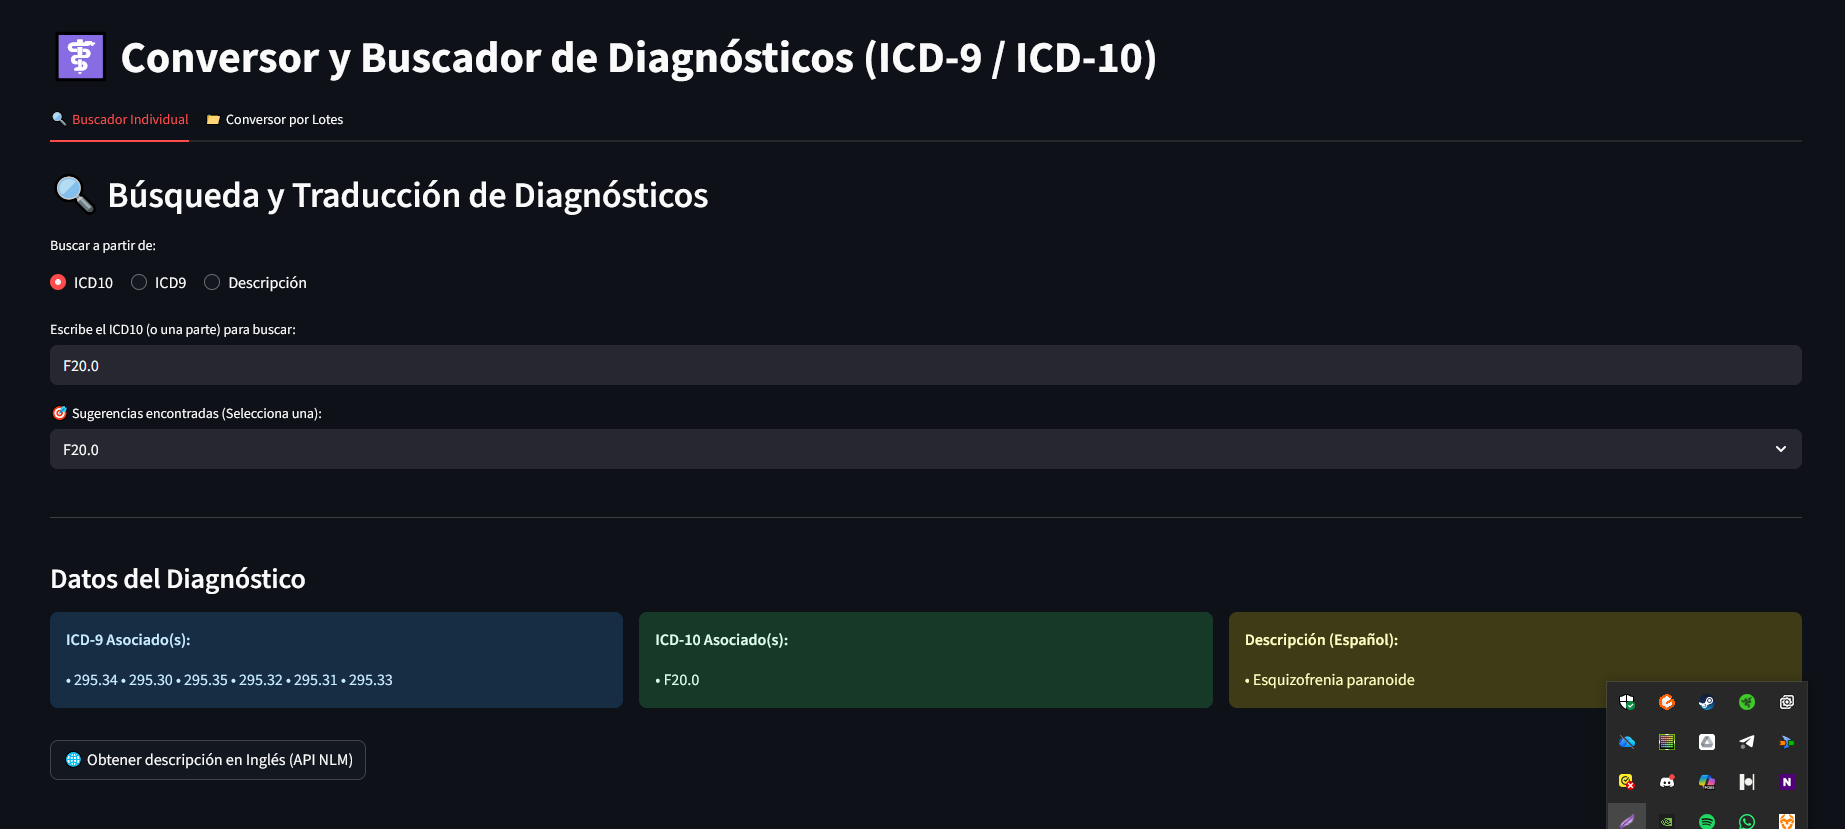
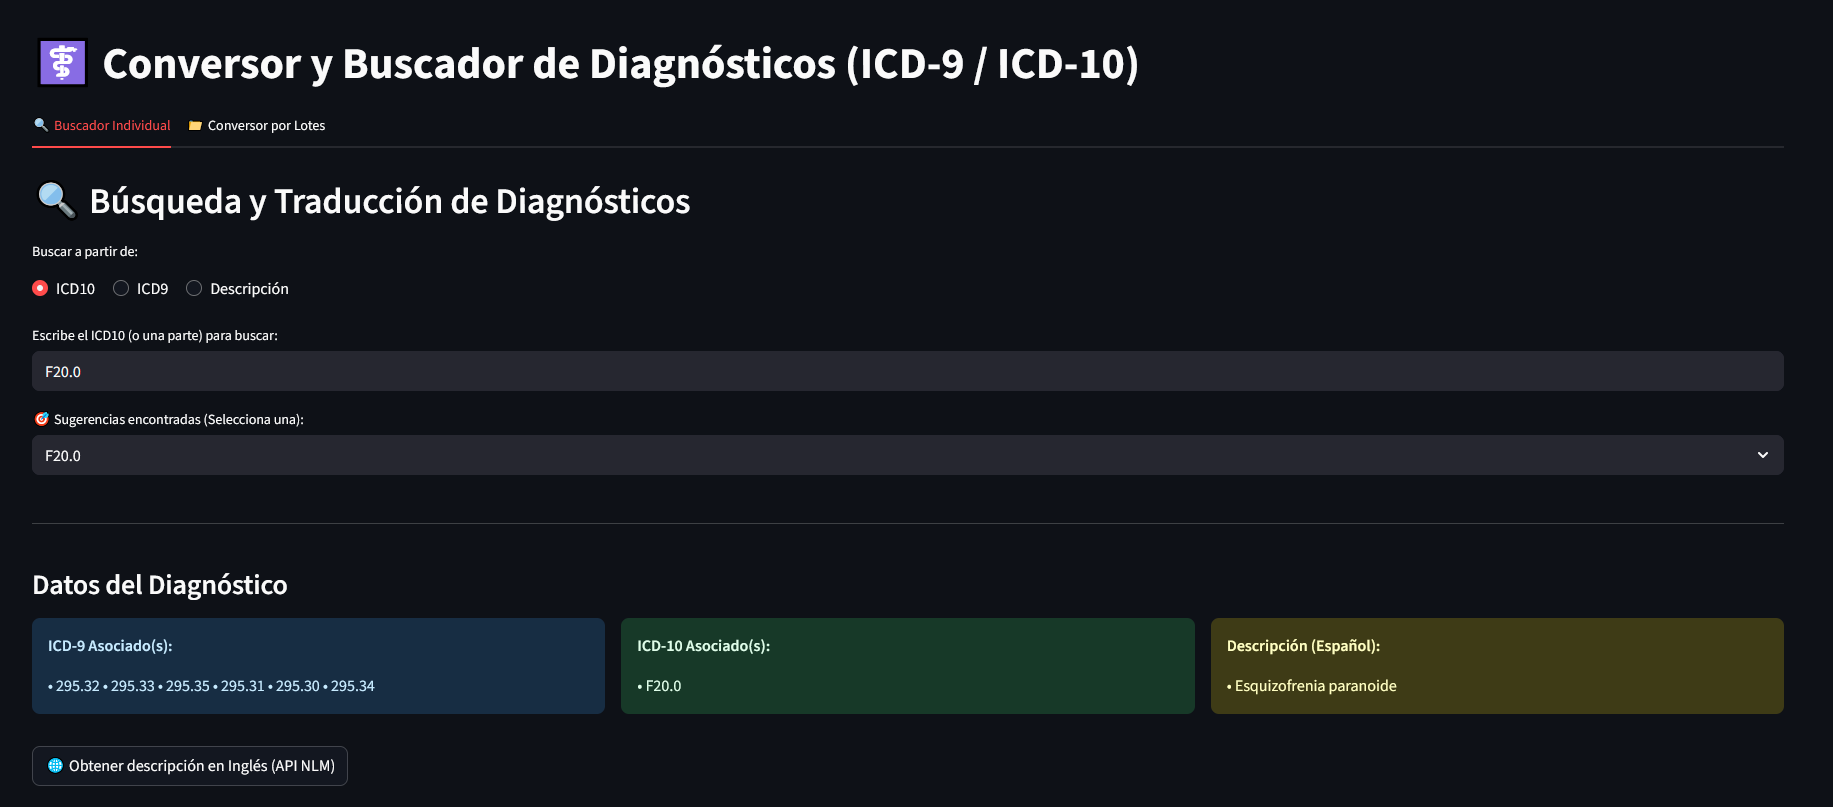
Apartado 6, completado

Changed region(s): [[0.0, 0.2169, 0.9951, 0.5886], [0.0, 0.6815, 0.9951, 1.0], [0.0, 0.031, 0.653, 0.1859]]

diff --git a/LaTeX/Memoria.tex b/LaTeX/Memoria.tex
@@ -374,6 +374,17 @@ El recorrido del profesional médico a través de la herramienta sigue una secue
 \end{enumerate}
 
 Este diseño de un solo nivel garantiza que cualquier miembro del personal sanitario, independientemente de su grado de alfabetización digital, pueda asimilar el manejo de la herramienta en apenas unos minutos, manteniendo su atención focalizada en el diagnóstico del paciente y no en el uso del \textit{software}.
+
+Por otro lado, cuando el usuario conmuta la interfaz hacia la pestaña de \textit{Conversor por Lotes}, la arquitectura de la aplicación cambia hacia un modelo de flujo de trabajo guiado por estados secuenciales (\textit{State-driven Workflow}). Este diseño impide que el usuario cometa errores de configuración al bloquear las opciones avanzadas hasta que se verifiquen con éxito los pasos previos:
+
+\begin{enumerate}
+    \item \textbf{Fase de Ingesta e Inspección Estructural:} El flujo se inicia en un componente de arrastre de archivos (\textit{Drag and Drop}) optimizado para archivos CSV, proporcionado por Streamlit. Tras la carga del fichero por parte del usuario, el sistema realiza de forma asíncrona un \textit{parsing} primario y renderiza una previsualización interactiva limitada a las primeras 5 filas. Esto permite al facultativo comprobar visualmente si la estructura del archivo cargado coincide con sus expectativas antes de iniciar cualquier cómputo.
+    
+    \item \textbf{Fase de Parametrización Dinámica:} Una vez validada la presencia del archivo, la interfaz desbloquea dinámicamente el panel de <<Configuración de la conversión>>. En este punto, la navegación es puramente selectiva: el sistema lee las cabeceras del CSV original y rellena automáticamente un menú desplegable para que el usuario elija qué columna exacta contiene los datos a convertir, el formato de origen (ICD-9, ICD-10 o descripción) y las conversiones deseadas para el conjunto de datos resultante (códigos cruzados, descripciones en castellano o descripciones internacionales).
+    
+    \item \textbf{Ejecución, Validación y Persistencia:} Tras presionar el botón de procesamiento, el sistema ejecuta las transformaciones en segundo plano, notificando el éxito de la operación mediante una alerta visual integrada de éxito. Finalmente, el flujo concluye revelando una tabla de resultados enriquecida y habilitando de forma síncrona el botón de descarga, cerrando el ciclo de vida del dato dentro de la sesión web sin provocar disrupciones en la pantalla principal.
+\end{enumerate}
+
 \section{Accesibilidad de la aplicación}
 
 La accesibilidad de la plataforma se ha planteado desde una perspectiva práctica y funcional, adaptando los criterios estándar de diseño web a las necesidades específicas del entorno clínico hospitalario. Siguiendo las directrices de simplicidad establecidas en las secciones previas, la accesibilidad de la aplicación no se basa en menús de configuración complejos, sino en un diseño nativamente inclusivo que reduce las barreras de uso para todo el personal sanitario.
@@ -408,6 +419,43 @@ Las características funcionales clave integradas en este panel son las siguient
     \includegraphics[width=0.95\textwidth]{imagenes/Web_en_accion.png}
     \caption{Módulo del Conversor Individual: interfaz de búsqueda polivalente y panel de resultados de correspondencias ICD-9/ICD-10.}
     \label{fig:conversor_icd}
+\end{figure}
+
+\section{Procesamiento masivo y automatización por lotes}
+
+La segunda funcionalidad de la herramienta es el módulo de procesamiento masivo, diseñado específicamente para dar respuesta a flujos de trabajo orientados a la investigación epidemiológica o a la migración a gran escala de bases de datos hospitalarias locales. Esta funcionalidad traslada la lógica de traducción semántica individualizada a un motor de transformación de conjuntos de datos tabulares en memoria.
+
+Las características arquitectónicas y de diseño técnico que definen este panel se desglosan a continuación:
+
+\begin{itemize}
+    \item \textbf{Aislamiento y tipado dinámico de columnas:} El motor de la aplicación web lee de forma nativa el esquema del archivo CSV suministrado por el usuario. Al automatizar la extracción de las etiquetas de las columnas (como se ilustra en el campo \textit{Codigo\_Entrada}), el sistema independiza al profesional de la necesidad de adaptar o renombrar la estructura de sus archivos de origen, garantizando la compatibilidad con cualquier volcado de datos crudos proveniente de un sistema de historia clínica ajeno.
+    
+    \item \textbf{Modularidad bajo demanda y gestión de latencia:} El panel de selección de nuevas columnas permite configurar la carga de la consulta de forma granular. El usuario puede determinar si desea limitar la conversión al cruce estricto de códigos locales o si prefiere enriquecer el dataset con semántica lingüística. El sistema incluye una advertencia explícita respecto al coste computacional de activar la opción <<Inglés (API)>>; esto refleja un diseño consciente de la latencia informática, puesto que la traducción local basada en el \textit{dataset} curado opera en milisegundos, mientras que la concatenación de llamadas asíncronas externas a la API de la NLM introduce cuellos de botella de red que el usuario debe conocer.
+    
+    \item \textbf{Previsualización síncrona del dataset transformado:} Una vez completado el algoritmo de combinación y mapeo relacional, la aplicación despliega un \textit{dataframe} dinámico integrado en la propia vista. Esta visualización presenta de forma transparente el resultado de la transformación cruzada: un código de entrada genérico (por ejemplo, el código clínico \textit{E11.9} o \textit{M54.5}) se descompone horizontalmente indexando su equivalencia en el estándar opuesto, acoplando a la vez sus respectivas descripciones diagnósticas en castellano e inglés (si es pedido).
+    
+    \item \textbf{Persistencia y exportación limpia:} El módulo concluye su pipeline operativo exponiendo un botón de acción dedicado a la descarga del recurso enriquecido. El archivo resultante mantiene intacto el orden secuencial y los identificadores originales del usuario, añadiendo estrictamente las columnas configuradas. Esta salida estandarizada garantiza que el archivo generado pueda reintroducirse directamente en herramientas de análisis estadístico posteriores o motores de bases de datos corporativos.
+\end{itemize}
+
+\begin{figure}[htbp]
+    \centering
+    \includegraphics[width=0.95\textwidth]{imagenes/Web_lotes_1.png}
+    \caption{Módulo del Conversor por Lotes: interfaz de carga de archivos}
+    \label{fig:conversor_lotes_1}
+\end{figure}
+
+\begin{figure}[htbp]
+    \centering
+    \includegraphics[width=0.95\textwidth]{imagenes/Web_lotes_2.png}
+    \caption{Módulo del Conversor por Lotes: Panel de previsualización de datos cargados y selección de criterios de conversión.}
+    \label{fig:conversor_lotes_2}
+\end{figure}
+
+\begin{figure}[htbp]
+    \centering
+    \includegraphics[width=0.95\textwidth]{imagenes/Web_lotes_3.png}
+    \caption{Módulo del Conversor por Lotes: Resultados de la conversión seleccionada, con opción de descarga en formato CSV.}
+    \label{fig:conversor_lotes_3}
 \end{figure}
 
 

diff --git a/web/logica.py b/web/logica.py
@@ -61,6 +61,10 @@ def procesar_ingles_lotes(df_final, col_icd10="ICD10", progress_callback=None):
     
     diccionario_ingles = {}
     total = len(codigos_unicos)
+
+    # Si no hay códigos válidos, devolvemos el DataFrame con la columna de inglés ya añadida.
+    if total == 0:
+        return df_final.with_columns(pl.lit("No encontrado en API").alias("Descripcion (Ingles)"))
     
     # Bucle de consultas a la API
     for i, codigo in enumerate(codigos_unicos):
@@ -75,8 +79,8 @@ def procesar_ingles_lotes(df_final, col_icd10="ICD10", progress_callback=None):
         
     # Mapeamos los resultados de vuelta a un DataFrame temporal
     df_traducciones = pl.DataFrame({
-        "codigo_temp": list(diccionario_ingles.keys()),
-        "Descripcion (Ingles)": list(diccionario_ingles.values())
+        "codigo_temp": pl.Series("codigo_temp", list(diccionario_ingles.keys()), dtype=pl.Utf8),
+        "Descripcion (Ingles)": pl.Series("Descripcion (Ingles)", list(diccionario_ingles.values()), dtype=pl.Utf8)
     })
     
     # Cruzamos las traducciones con el DataFrame principal
